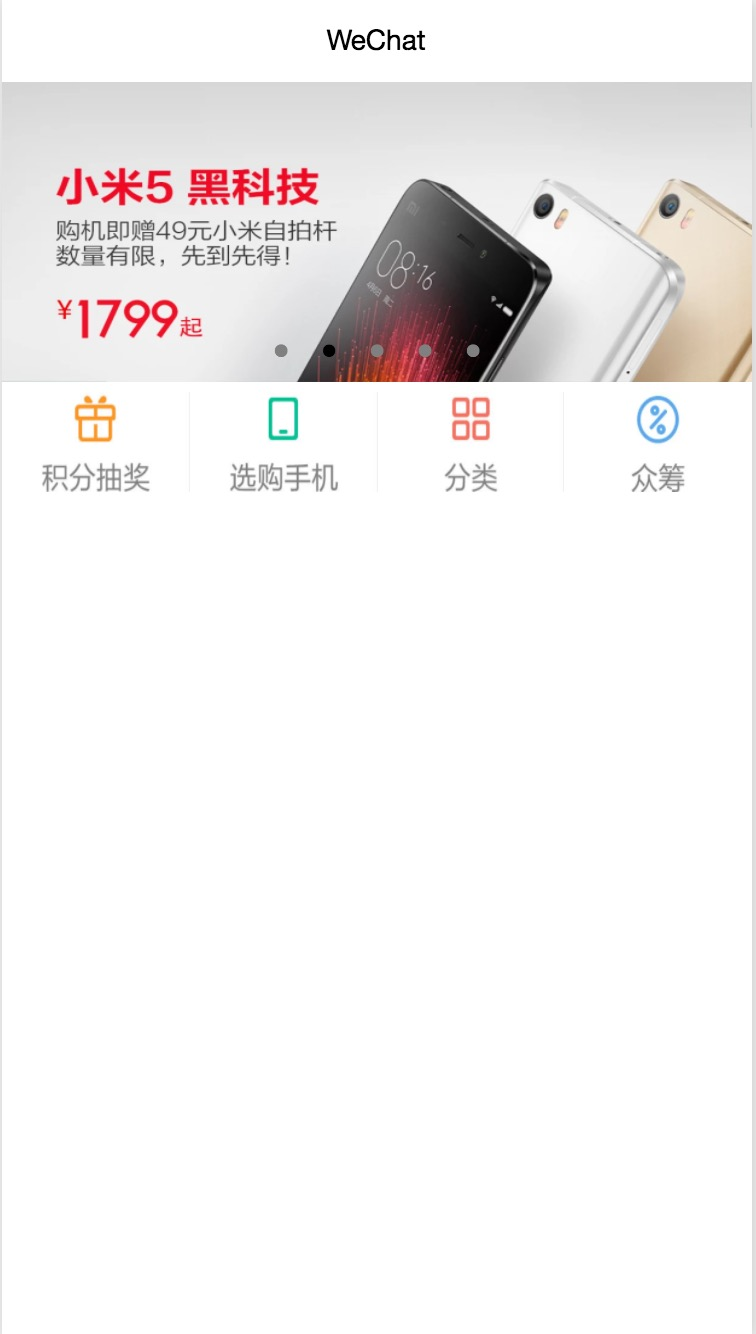
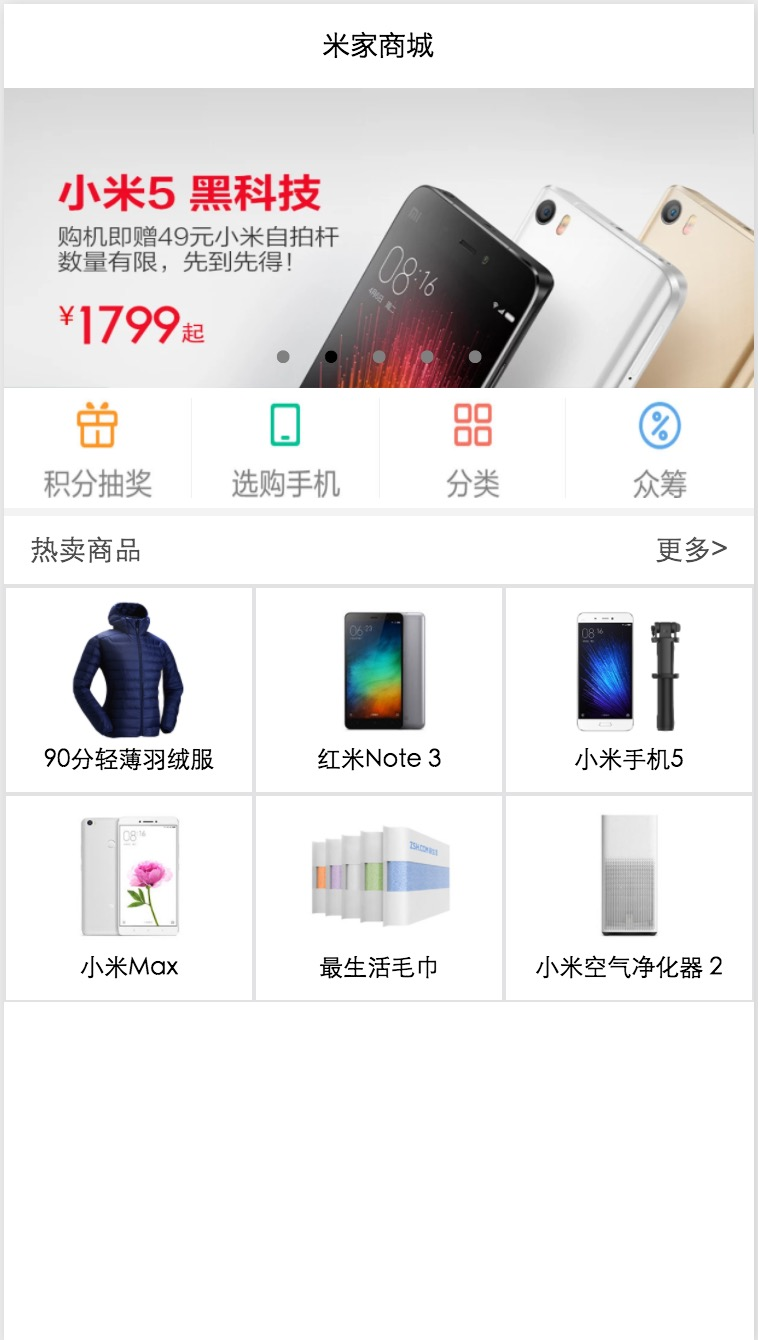
add hot good

diff --git a/pages/index/index.js b/pages/index/index.js
@@ -46,6 +46,44 @@ Page({
           }
         ]
       }
+    ],
+    hotgoods: [
+      {
+        "name": "90分轻薄羽绒服",
+        "summary": "防钻绒工艺,保暖更锁温,备好深秋暖意",
+        "ext_tag": "http://static.home.mi.com/app/shop/img?id=shop_9d57f6e89d1f560b7bce31e0b85a7285.png&w=420&h=240&crop=a_0_120_1080_480&t=png",
+        "pic_url": "http://static.home.mi.com/app/shop/img?id=shop_48ebe9e693ade1766877e0f8adf425f7.png&w=420&h=240&crop=a_90_0_240_240"
+      },
+      {
+        "name": "红米Note 3",
+        "summary": "金属机身,指纹解锁,4000mAh大电池",
+        "ext_tag": "http://static.home.mi.com/app/shop/img?id=shop_d65477ca8db6626da323554e132d7de9.png&w=420&h=240&crop=a_0_120_1080_480&t=png",
+        "pic_url": "http://static.home.mi.com/app/shop/img?id=shop_c2cf209c66a22818c7f5c269f6bbff12.jpeg&w=420&h=240&crop=a_90_0_240_240",
+        "url": "http://home.mi.com/shop/detail?gid=95"
+      },
+      {
+        "name": "小米手机5",
+        "summary": "骁龙820处理器,4轴防抖相机",
+        "ext_tag": "http://static.home.mi.com/app/shop/img?id=shop_34699befd5c2de3a028eb987fea574e9.png&w=420&h=240&crop=a_0_120_1080_480&t=png",
+        "pic_url": "http://static.home.mi.com/app/shop/img?id=shop_8dec2f08e5dd9d08b440f77a36e39e16.png&w=420&h=240&crop=a_90_0_240_240"
+      },
+      {
+        "name": "小米Max",
+         "pic_url": "http://static.home.mi.com/app/shop/img?id=shop_35a026ff12d476496f91d121911af0ce.jpg&crop=a_90_0_240_240",
+        "summary": "6.44寸大屏黄金尺寸,买赠智能显示保护套",
+        "ext_tag": "http://static.home.mi.com/app/shop/img?id=shop_86f01fa8cea034deb1dce44c0385baab.png&w=420&h=240&crop=a_0_120_1080_480&t=png"
+      },
+      {
+        "name": "最生活毛巾",
+        "summary": "精选阿瓦提长绒棉,瑞典抗菌科技,3条/包",
+        "ext_tag": "http://static.home.mi.com/app/shop/img?id=shop_26beb8c609406d060c57b7cdc9d2627f.png&w=420&h=240&crop=a_0_120_1080_480&t=png",
+        "pic_url": "http://static.home.mi.com/app/shop/img?id=shop_1e29af11fa83139dd305d61cb83c94ac.jpeg&w=420&h=240&crop=a_90_0_240_240"
+      },
+      {
+        "name": "小米空气净化器 2",
+        "summary": "全新空气增压系统,净化性能高达 310m³/h",
+        "pic_url": "http://static.home.mi.com/app/shop/img?id=shop_0b23f4b364ee73bc86b280cc7397638c.jpg&w=420&h=240&crop=a_90_0_240_240"
+      }
     ]
   },
   //事件处理函数
